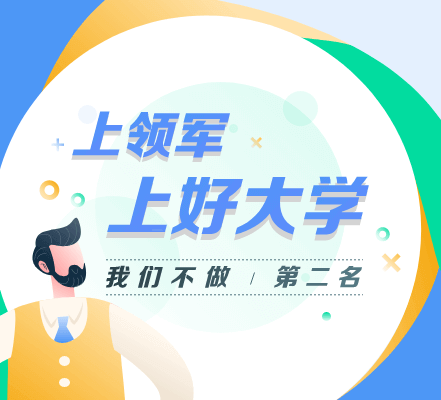
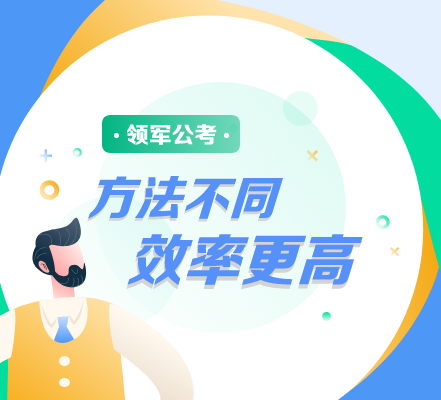
分享

diff --git a/packages/student/course/android/course_detail/course_detail.js b/packages/student/course/android/course_detail/course_detail.js
@@ -115,7 +115,7 @@ Page({
     var kid = that.data.course_cata.lists[xb].kid
     var eid = that.data.course_cata.lists[xb].eid
     var mid = that.data.course_cata.lists[xb].mid
-    if (that.data.course_cata.lists[xb].cateid == 1) {
+    if (that.data.course_cata.lists[xb].cateid == 1 ||that.data.course_cata.lists[xb].cateid == 2) {
       wx.navigateTo({
         url: app.getPagePath('live') + '?id=' + id + '&kid=' + kid,    //直播
       })
@@ -598,6 +598,6 @@ Page({
   onShareAppMessage: function () {
     let that = this;
     let paramsStr = 'isshare=1&gid=' + that.data.gid + '&kid=' + that.data.kid
-    return app.shareTool.getShareReturnInfo('0,1', 'course_detail', paramsStr, '/images/other/share1.png', '领军网校')
+    return app.shareTool.getShareReturnInfo('0,1', 'course_detail', paramsStr, '/images/other/share1.png')
   },
 })

diff --git a/packages/student/course/iOS/course_detail_ios/course_detail_ios.js b/packages/student/course/iOS/course_detail_ios/course_detail_ios.js
@@ -115,7 +115,7 @@ Page({
     var kid = that.data.course_cata.lists[xb].kid
     var eid = that.data.course_cata.lists[xb].eid
     var mid = that.data.course_cata.lists[xb].mid
-    if (that.data.course_cata.lists[xb].cateid == 1) {
+    if (that.data.course_cata.lists[xb].cateid == 1||that.data.course_cata.lists[xb].cateid == 2) {
       wx.navigateTo({
         url: app.getPagePath('live') + '?id=' + id + '&kid=' + kid,    //直播
       })
@@ -598,6 +598,6 @@ Page({
   onShareAppMessage: function () {
     let that = this;
     let paramsStr = 'isshare=1&gid=' + that.data.gid + '&kid=' + that.data.kid
-    return app.shareTool.getShareReturnInfo('0,1', 'course_detail', paramsStr, '/images/other/share1.png', '领军网校')
+    return app.shareTool.getShareReturnInfo('0,1', 'course_detail', paramsStr, '/images/other/share1.png')
   },
 })

diff --git a/utils/shareTool.js b/utils/shareTool.js
@@ -58,7 +58,7 @@ function getShareReturnInfo(role, targetPageName ,paramsStr, imageUrl, title) {
   }
   console.log("获取分享源路径：\n", path)
   return {
-    title: title ? title : '领军网校',
+    title: title ? title : '领军公考',
     path: path,
     imageUrl: (imageUrl && imageUrl != '') ? imageUrl : '/images/other/share1.png',
     success (res) {
@@ -116,7 +116,7 @@ function shareTarget () {
       // 分享的页面为 tabbar页面 切换tabbar选中item
       setTimeout(function(){
         wx.switchTab({
-          url: app.getPagePath(shareOption.target),
+          url: pagePath.getPagePath(shareOption.target),
         })
       }, 100)
     }

diff --git a/packages/student/course/common/video/video.js b/packages/student/course/common/video/video.js
@@ -535,6 +535,6 @@ getPhoneNumber: function (e) {
 
     let that = this;
     let paramStr = 'isshare=1&eid=' + that.data.eid + '&gid=' + wx.getStorageSync('gid') + '&kid=' + that.data.kid + '&id=' + that.data.id + '&mid=' + that.data.mid
-    return app.shareTool.getShareReturnInfo('0,1', 'video', paramStr, '/images/other/share1.png', '领军网校')
+    return app.shareTool.getShareReturnInfo('0,1', 'video', paramStr, '/images/other/share1.png')
   }
 })

diff --git a/packages/student/vip/android/vip_detail/vip_detail.js b/packages/student/vip/android/vip_detail/vip_detail.js
@@ -385,6 +385,6 @@ getPhoneNumber: function (e) {
   onShareAppMessage: function () {
     let that = this;
     let paramStr = 'isshare=1&gid=' + wx.getStorageSync('gid') 
-    return app.shareTool.getShareReturnInfo('0,1', 'vip_detail', paramStr, '/images/other/share1.png', '领军网校')
+    return app.shareTool.getShareReturnInfo('0,1', 'vip_detail', paramStr, '/images/other/share1.png')
   }
 })

diff --git a/packages/student/vip/iOS/vip_detail_ios/vip_detail_ios.js b/packages/student/vip/iOS/vip_detail_ios/vip_detail_ios.js
@@ -371,6 +371,6 @@ getPhoneNumber: function (e) {
   onShareAppMessage: function () {
     let that = this;
     let paramStr = 'isshare=1&gid=' + wx.getStorageSync('gid') 
-    return app.shareTool.getShareReturnInfo('0,1', 'vip_detail', paramStr, '/images/other/share1.png', '领军网校')
+    return app.shareTool.getShareReturnInfo('0,1', 'vip_detail', paramStr, '/images/other/share1.png')
   }
 })

diff --git a/packages/tabbar/pages/my/my.js b/packages/tabbar/pages/my/my.js
@@ -108,7 +108,7 @@ Page({
   onShareAppMessage: function () {
     let that = this;
     let paramStr = 'isshare=1&gid=' + that.data.gid
-    return app.shareTool.getShareReturnInfo('0,1', 'my', paramStr, '/images/other/share1.png', '领军网校')
+    return app.shareTool.getShareReturnInfo('0,1', 'my', paramStr, '/images/other/share1.png',"领军公考")
   },
 
   //登录判断

diff --git a/packages/tabbar/pages/logs/logs.js b/packages/tabbar/pages/logs/logs.js
@@ -608,7 +608,7 @@ Page({
   onShareAppMessage: function () {
     let that = this;
     let paramStr = 'isshare=1&gid=' + that.data.gid
-    return app.shareTool.getShareReturnInfo('0,1', 'logs', paramStr, '/images/other/share1.png', '领军网校')
+    return app.shareTool.getShareReturnInfo('0,1', 'logs', paramStr, '/images/other/share1.png')
   },
 
   cs:function(){

diff --git a/packages/firstpage/first_page/first_page.js b/packages/firstpage/first_page/first_page.js
@@ -7,7 +7,7 @@ Page({
    */
   data: {
     grade_index:0,
-    bg:"https://onlineschool-1256006778.cos.ap-beijing.myqcloud.com/first_bg.png",
+    bg:"https://gkschool-1256006778.cos.ap-beijing.myqcloud.com/annex/ljgk_bg.png",
 
     // 是否展示页面内容
     showPageContent: false
